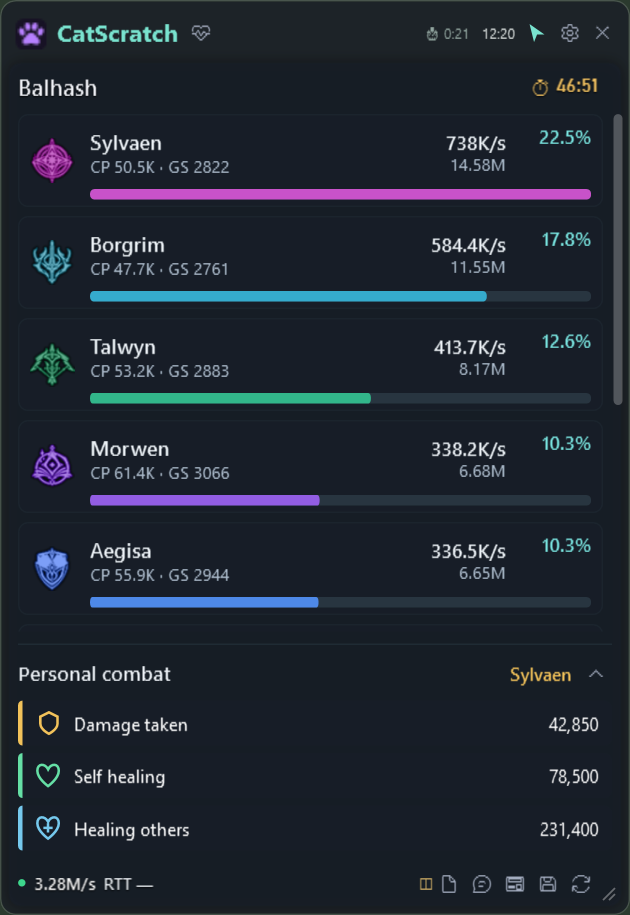
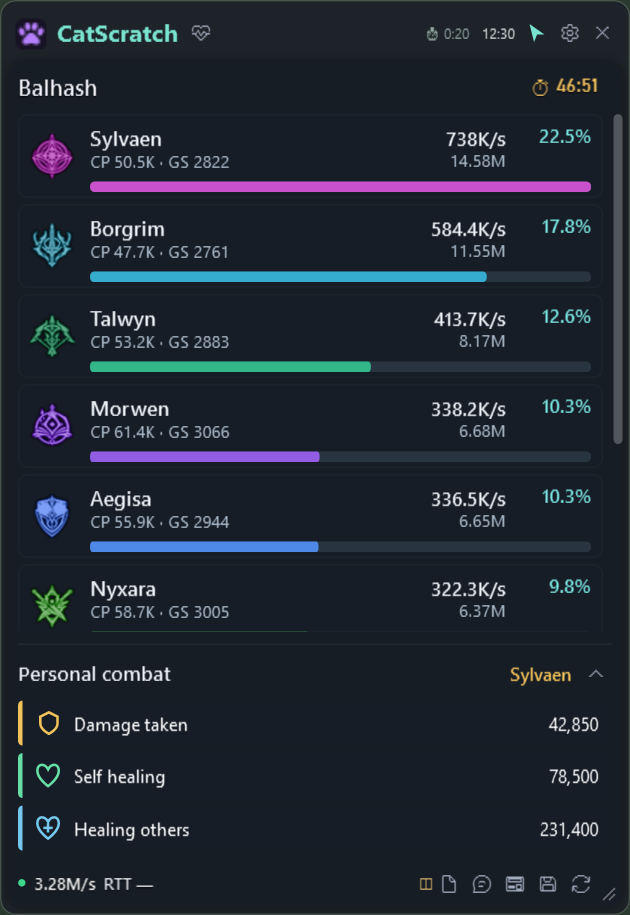
Make DPS rows slightly more compact for v2.0.1

diff --git a/src/AionMeter.App/Windows/OverlayWindow.xaml b/src/AionMeter.App/Windows/OverlayWindow.xaml
@@ -167,9 +167,9 @@
         </Style>
 
         <DataTemplate x:Key="CompactRowTemplate" DataType="{x:Type vm:RowViewModel}">
-            <Grid x:Name="ModernRow" Height="{DynamicResource CompactRowHeight}" Margin="0,0,0,6" Cursor="Hand" Background="Transparent" ToolTip="{Binding Tooltip}" MouseLeftButtonUp="Row_Click" MouseRightButtonUp="Row_RightClick">
+            <Grid x:Name="ModernRow" Height="{DynamicResource CompactRowHeight}" Margin="0,0,0,4" Cursor="Hand" Background="Transparent" ToolTip="{Binding Tooltip}" MouseLeftButtonUp="Row_Click" MouseRightButtonUp="Row_RightClick">
                 <Border x:Name="RowSurface" Background="#D0171E27" BorderBrush="#302E4252" BorderThickness="1" CornerRadius="6" />
-                <Grid Margin="8,5,8,5">
+                <Grid Margin="8,4,8,4">
                     <Grid.ColumnDefinitions><ColumnDefinition Width="{DynamicResource ColGlyphWidth}"/><ColumnDefinition Width="*"/><ColumnDefinition Width="76"/><ColumnDefinition Width="57"/></Grid.ColumnDefinitions>
                     <c:ClassGlyph Class="{Binding Class}" Width="{DynamicResource RowGlyphSize}" Height="{DynamicResource RowGlyphSize}" VerticalAlignment="Center" HorizontalAlignment="Left"/>
                     <Grid Grid.Column="1" Grid.ColumnSpan="3" Margin="4,0,0,0">

diff --git a/src/AionMeter.App/Windows/OverlayWindow.xaml.cs b/src/AionMeter.App/Windows/OverlayWindow.xaml.cs
@@ -375,7 +375,7 @@ public partial class OverlayWindow : Window, IDisplayAppearance
     {
         var k = Math.Clamp(percent, AppSettings.MinRowSize, AppSettings.MaxRowSize) / 100.0;
         var f = Math.Sqrt(k);
-        var height = Math.Max(54, Math.Round((_settings.CompactMode ? 62 : 70) * k));
+        var height = Math.Max(52, Math.Round((_settings.CompactMode ? 56 : 64) * k));
         Resources["RowHeight"] = height;
         Resources["CompactRowHeight"] = height;
         Resources["CompactNameFont"] = Math.Max(12, Math.Round(14 * f, 1));

diff --git a/data/patchnotes-en.md b/data/patchnotes-en.md
@@ -1,3 +1,8 @@
+## CatScratch v2.0.1
+
+- Make DPS rows slightly more compact by reducing row height, vertical padding and spacing.
+- Preserve fonts, colors, the overall design and transparent click-through behavior.
+
 ## CatScratch v2.0.0
 
 - Redesign the DPS meter with dark rounded player rows, larger class emblems and separate class-colored damage bars.
